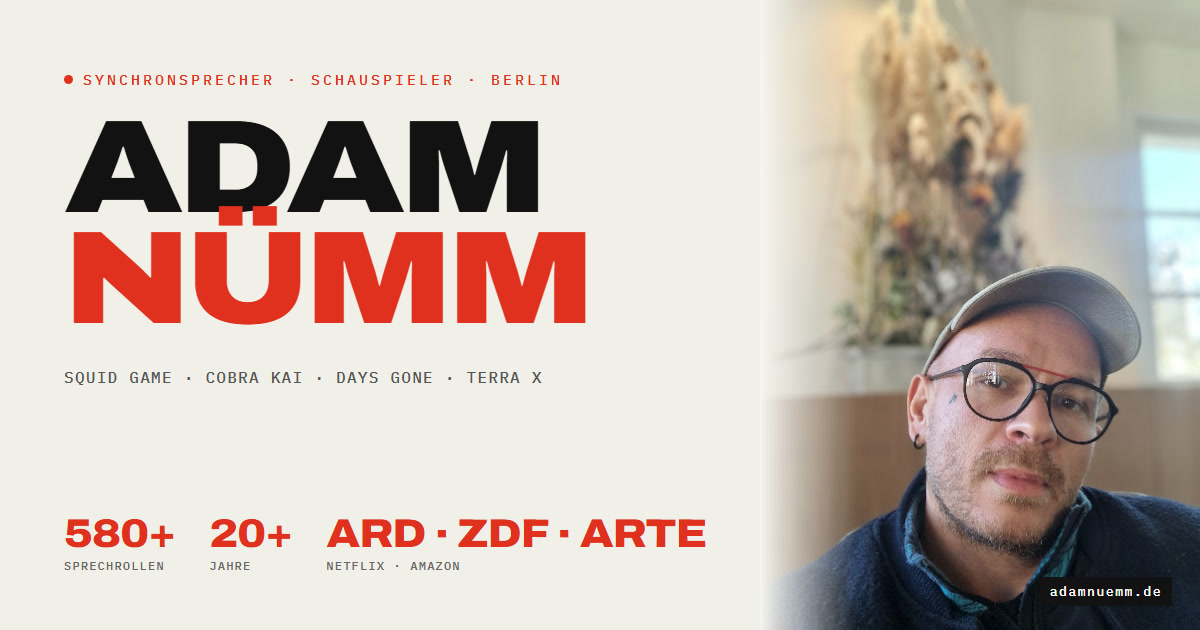
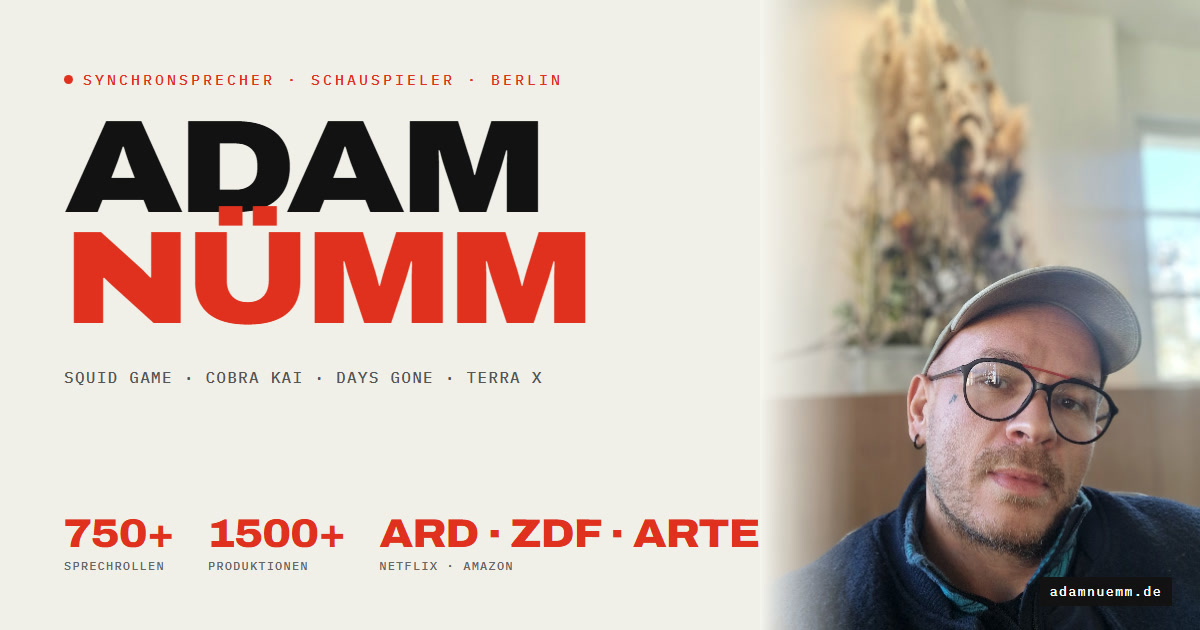
750+ Sprechrollen, 1500+ Produktionen; Teilen-Vorschaubild angepasst

Changed region(s): [[0.1542, 0.8143, 0.6475, 0.9048], [0.0308, 0.8143, 0.1542, 0.8746]]

diff --git a/index.html b/index.html
@@ -11,7 +11,7 @@
 <title id="pageTitle">Adam Nümm – Synchronsprecher &amp; Schauspieler · Stimme. Bühne. Charakter.</title>
 
 <!-- ── SEO / META ── -->
-<meta name="description" content="Adam Nümm – Synchronsprecher &amp; Schauspieler aus Berlin. Deutsche Stimme u. a. in Squid Game, Cobra Kai, Limitless und Days Gone – über 580 Rollen in Film, Serie, Games &amp; Hörbuch. Sprachproben, Showreel &amp; Buchung."/>
+<meta name="description" content="Adam Nümm – Synchronsprecher &amp; Schauspieler aus Berlin. Deutsche Stimme u. a. in Squid Game, Cobra Kai, Limitless und Days Gone – über 750 Rollen in Film, Serie, Games &amp; Hörbuch. Sprachproben, Showreel &amp; Buchung."/>
 <meta name="author" content="Adam Nümm"/>
 <link rel="canonical" href="https://adamnuemm.de/"/>
 
@@ -19,7 +19,7 @@
 <meta property="og:type" content="profile"/>
 <meta property="og:site_name" content="Adam Nümm"/>
 <meta property="og:title" content="Adam Nümm – Synchronsprecher &amp; Schauspieler"/>
-<meta property="og:description" content="Deutsche Stimme u. a. in Squid Game, Cobra Kai &amp; Days Gone. Über 580 Rollen in Film, Serie, Games &amp; Hörbuch. Sprachproben &amp; Buchung."/>
+<meta property="og:description" content="Deutsche Stimme u. a. in Squid Game, Cobra Kai &amp; Days Gone. Über 750 Rollen in Film, Serie, Games &amp; Hörbuch. Sprachproben &amp; Buchung."/>
 <meta property="og:image" content="https://adamnuemm.de/teilen.jpg"/>
 <meta property="og:image:width" content="1200"/>
 <meta property="og:image:height" content="630"/>
@@ -29,7 +29,7 @@
 <!-- Twitter / X -->
 <meta name="twitter:card" content="summary_large_image"/>
 <meta name="twitter:title" content="Adam Nümm – Synchronsprecher &amp; Schauspieler"/>
-<meta name="twitter:description" content="Deutsche Stimme u. a. in Squid Game, Cobra Kai &amp; Days Gone. Über 580 Rollen. Sprachproben &amp; Buchung."/>
+<meta name="twitter:description" content="Deutsche Stimme u. a. in Squid Game, Cobra Kai &amp; Days Gone. Über 750 Rollen. Sprachproben &amp; Buchung."/>
 <meta name="twitter:image" content="https://adamnuemm.de/teilen.jpg"/>
 
 <!-- Structured Data: Person (Google Rich Results / Knowledge Panel) -->
@@ -737,14 +737,18 @@ body::before{display:none;}
   </h1>
 
   <p class="hero-subtitle">
-    <span data-de="Eine Stimme, die Figuren zum Leben erweckt. Über 580 Rollen, von Cobra Kai bis Limitless – und jede mit eigener Seele." data-en="A voice that brings characters to life. Over 580 roles, from Cobra Kai to Limitless – each with its own soul.">Eine Stimme, die Figuren zum Leben erweckt. Über 580 Rollen, von Cobra Kai bis Limitless – und jede mit eigener Seele.</span>
+    <span data-de="Eine Stimme, die Figuren zum Leben erweckt. Über 750 Rollen, von Cobra Kai bis Limitless – und jede mit eigener Seele." data-en="A voice that brings characters to life. Over 750 roles, from Cobra Kai to Limitless – each with its own soul.">Eine Stimme, die Figuren zum Leben erweckt. Über 750 Rollen, von Cobra Kai bis Limitless – und jede mit eigener Seele.</span>
   </p>
 
   <div class="hero-bottom">
     <div class="hero-stats">
       <div>
-        <div class="stat-num">580+</div>
+        <div class="stat-num">750+</div>
         <div class="stat-label" data-de="Sprechrollen" data-en="Voice Roles">Sprechrollen</div>
+      </div>
+      <div>
+        <div class="stat-num">1500+</div>
+        <div class="stat-label" data-de="Produktionen" data-en="Productions">Produktionen</div>
       </div>
       <div>
         <div class="stat-num">20+</div>
@@ -1417,7 +1421,7 @@ body::before{display:none;}
     </div>
     <div class="credit-item">
       <div class="credit-role" data-de="Anime · Games" data-en="Anime · Games">Anime · Games</div>
-      <div class="credit-name" data-de="580+ Rollen" data-en="580+ Roles">580+ Rollen</div>
+      <div class="credit-name" data-de="750+ Rollen" data-en="750+ Roles">750+ Rollen</div>
       <div class="credit-show"><span data-de="Beyblade, Ultraman, Kuroko's Basketball u.v.m." data-en="Beyblade, Ultraman, Kuroko's Basketball and many more">Beyblade, Ultraman, Kuroko's Basketball u.v.m.</span></div>
     </div>
   </div>
